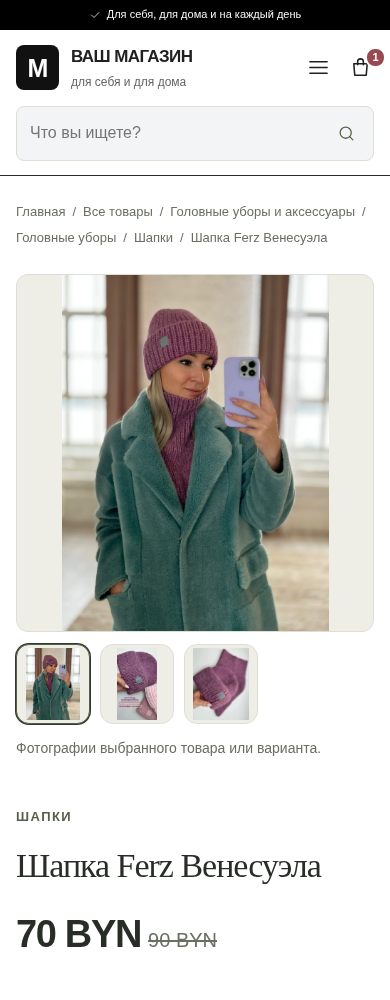
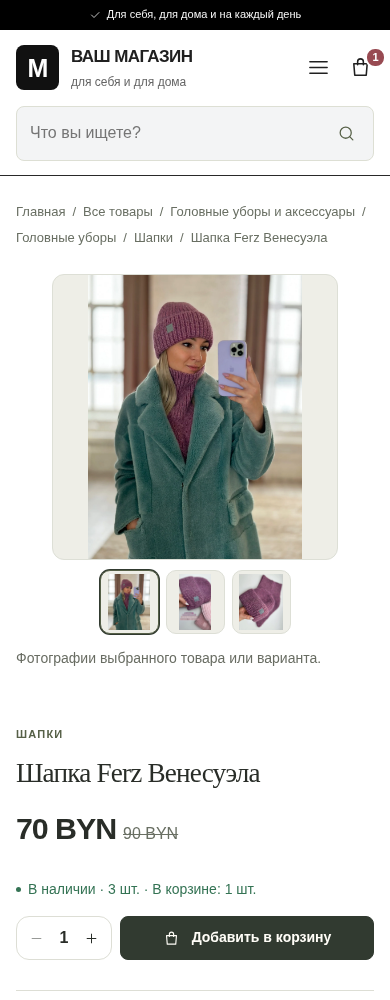
Compact product detail view and add dedicated merged group lists

Changed region(s): [[0.0308, 0.248, 0.9846, 0.961]]

diff --git a/preview.html b/preview.html
@@ -2938,6 +2938,36 @@ button svg {
 .hero-art > svg { position: absolute; inset: 0; width: 100%; height: 100%; max-height: none; }
 @media(max-width:850px){.hero-controls { left: 32px; }.hero-copy { padding-bottom: 92px; }.hero-art { margin-bottom: 70px; }.hero-controls { bottom: 14px; }}
 @media(max-width:600px){.hero-controls { left: 24px; gap: 8px; }.hero-copy { padding-bottom: 32px; }.hero-art { margin-bottom: 68px; }}
+/* Compact product presentation: roughly 80% of the previous desktop scale. */
+.detail { width: 80%; margin-inline: auto; gap: 51px; padding-bottom: 64px; }
+.detail-info { padding-top: 9px; font-size: 14px; }
+.detail-info h1 { font-size: clamp(27.2px,2.64vw,38.4px); margin: 13px 0 22px; }
+.detail-price { font-size: 33.6px; margin-bottom: 26px; }
+.detail-price .old-price { font-size: 16px; }
+.detail .eyebrow { font-size: 11px; }
+.detail .stock-info { font-size: 14px; margin: 12px 0 16px; }
+.detail .buy-row { gap: 8px; }
+.detail .buy-row > .btn { min-height: 44px; min-width: 140px; font-size: 14px; padding: 10px 16px; }
+.detail .qty-input { height: 44px; width: 110px; }
+.detail .qty-input button { padding: 0 12px; }
+.detail .gallery-thumbs { gap: 7px; margin-top: 10px; }
+.detail .thumb { width: 70px; height: 75px; border-radius: 10px; }
+.detail .detail-rule { padding: 22px 0; }
+.detail .detail-rule p, .detail .detail-attrs { font-size: 14px; }
+.detail .detail-rule > strong { font-size: 15px; }
+@media(max-width:850px){
+ .detail { width: 100%; gap: 30px; padding-bottom: 38px; }
+ .detail-main-img { width: 80%; margin-inline: auto; }
+ .detail .gallery-thumbs { justify-content: center; }
+}
+@media(max-width:600px){
+ .detail-info h1 { font-size: 27.2px; margin-bottom: 16px; }
+ .detail-price { font-size: 30.4px; }
+ .detail .thumb { width: 59px; height: 64px; }
+ .detail .qty-input { width: 96px; }
+}
+.product-page > .breadcrumb { width: 80%; margin-inline: auto; }
+@media(max-width:850px){.product-page > .breadcrumb { width: 100%; }}
 
 </style>
 </head>
@@ -3816,7 +3846,7 @@ function renderProduct(){
    return `<button class="variant-pill ${state.selectedOptions[key]===value?'active':''}" data-option="${esc(key)}" data-value="${esc(value)}" aria-pressed="${state.selectedOptions[key]===value}" ${unavailable?'disabled':''}>${key==='Цвет'?`<span class="variant-dot" style="background:${swatch}"></span>`:''}${esc(value)}${unavailable?' · недоступно':off?' · нет в наличии':''}</button>`;
   }).join('')}</div></fieldset>`;
  }).join('');
- return `<main class="container"><nav class="breadcrumb" aria-label="Хлебные крошки"><button data-go="home">Главная</button>${categoryPath(p.cat).map(c=>`<span>/</span><button data-category="${c.id}">${esc(c.name)}</button>`).join('')}<span>/</span><span>${esc(p.name)}</span></nav><div class="detail"><div><div class="detail-main-img">${illustration(p,Math.max(0,index),state.gallery)}</div><div class="gallery-thumbs">${Array.from({length:mediaImages(p,Math.max(0,index)).length||2},(_,i)=>i).map(i=>`<button class="thumb ${state.gallery===i?'active':''}" data-gallery="${i}" aria-label="Изображение ${i+1}" aria-pressed="${state.gallery===i}">${illustration(p,Math.max(0,index),i)}</button>`).join('')}</div><p class="small muted">${mediaImages(p,Math.max(0,index)).length?'Фотографии выбранного товара или варианта.':'Пока показаны демонстрационные иллюстрации.'}</p></div><div class="detail-info"><span class="eyebrow">${esc(category(p.cat).name)}</span><h1 class="serif">${esc(v?.title||p.name)}</h1><div class="detail-price" aria-live="polite">${v?money(skuPrice(p,v)):variantPrice(p)}${v&&skuOld(p,v)>skuPrice(p,v)?`<span class="old-price">${money(skuOld(p,v))}</span>`:''}</div>${choices}<div class="stock-info ${!left?'off':''}" role="status"><span class="stock-dot"></span>${!v?'Такое сочетание недоступно':v.stock===0?'Нет в наличии':left===0?'Всё доступное количество уже в корзине':`В наличии · ${v.stock} шт.${orderingEnabled?'':' (демо)'}`}${v&&inCart(p,v)?` · В корзине: ${inCart(p,v)} шт.`:''}</div><div class="buy-row"><div class="qty-input"><button data-qty="-1" aria-label="Уменьшить количество" ${state.qty<=1||!left?'disabled':''}>${I('minus',15)}</button><strong aria-label="Количество">${state.qty}</strong><button data-qty="1" aria-label="Увеличить количество" ${state.qty>=left?'disabled':''}>${I('plus',15)}</button></div><button class="btn" style="flex:1" data-add="${p.id}" data-variant-index="${index}" data-qty-add="${state.qty}" ${!left?'disabled':''}>${I('bag',17)} Добавить в корзину</button></div><div class="detail-rule" style="margin-top:30px"><strong>Описание</strong><p class="desc">${esc(v?.description??p.summary)}</p></div><div class="detail-rule"><strong>Характеристики</strong><dl class="detail-attrs">${Object.entries(attrs).filter(([key])=>!/импорт[её]р|importer/iu.test(key)).map(([key,value])=>`<div><dt>${esc(key.replaceAll('_',' '))}</dt><dd>${esc(value)}</dd></div>`).join('')}</dl></div><div class="detail-rule"><strong>Доставка и оплата</strong><p>Доступные варианты доставки и итоговая стоимость определяются при оформлении заказа. Условия и стоимость доставки подтвердит продавец.</p></div></div></div>${related.length?`<section class="section" style="padding-top:0"><div class="section-title"><h2 class="serif">Может понравиться</h2><button class="text-link" data-category="${p.cat}">К категории ${I('arrow',15)}</button></div><div class="product-grid">${related.map(card).join('')}</div></section>`:''}</main>`;
+ return `<main class="container product-page"><nav class="breadcrumb" aria-label="Хлебные крошки"><button data-go="home">Главная</button>${categoryPath(p.cat).map(c=>`<span>/</span><button data-category="${c.id}">${esc(c.name)}</button>`).join('')}<span>/</span><span>${esc(p.name)}</span></nav><div class="detail"><div><div class="detail-main-img">${illustration(p,Math.max(0,index),state.gallery)}</div><div class="gallery-thumbs">${Array.from({length:mediaImages(p,Math.max(0,index)).length||2},(_,i)=>i).map(i=>`<button class="thumb ${state.gallery===i?'active':''}" data-gallery="${i}" aria-label="Изображение ${i+1}" aria-pressed="${state.gallery===i}">${illustration(p,Math.max(0,index),i)}</button>`).join('')}</div><p class="small muted">${mediaImages(p,Math.max(0,index)).length?'Фотографии выбранного товара или варианта.':'Пока показаны демонстрационные иллюстрации.'}</p></div><div class="detail-info"><span class="eyebrow">${esc(category(p.cat).name)}</span><h1 class="serif">${esc(v?.title||p.name)}</h1><div class="detail-price" aria-live="polite">${v?money(skuPrice(p,v)):variantPrice(p)}${v&&skuOld(p,v)>skuPrice(p,v)?`<span class="old-price">${money(skuOld(p,v))}</span>`:''}</div>${choices}<div class="stock-info ${!left?'off':''}" role="status"><span class="stock-dot"></span>${!v?'Такое сочетание недоступно':v.stock===0?'Нет в наличии':left===0?'Всё доступное количество уже в корзине':`В наличии · ${v.stock} шт.${orderingEnabled?'':' (демо)'}`}${v&&inCart(p,v)?` · В корзине: ${inCart(p,v)} шт.`:''}</div><div class="buy-row"><div class="qty-input"><button data-qty="-1" aria-label="Уменьшить количество" ${state.qty<=1||!left?'disabled':''}>${I('minus',15)}</button><strong aria-label="Количество">${state.qty}</strong><button data-qty="1" aria-label="Увеличить количество" ${state.qty>=left?'disabled':''}>${I('plus',15)}</button></div><button class="btn" style="flex:1" data-add="${p.id}" data-variant-index="${index}" data-qty-add="${state.qty}" ${!left?'disabled':''}>${I('bag',17)} Добавить в корзину</button></div><div class="detail-rule" style="margin-top:30px"><strong>Описание</strong><p class="desc">${esc(v?.description??p.summary)}</p></div><div class="detail-rule"><strong>Характеристики</strong><dl class="detail-attrs">${Object.entries(attrs).filter(([key])=>!/импорт[её]р|importer/iu.test(key)).map(([key,value])=>`<div><dt>${esc(key.replaceAll('_',' '))}</dt><dd>${esc(value)}</dd></div>`).join('')}</dl></div><div class="detail-rule"><strong>Доставка и оплата</strong><p>Доступные варианты доставки и итоговая стоимость определяются при оформлении заказа. Условия и стоимость доставки подтвердит продавец.</p></div></div></div>${related.length?`<section class="section" style="padding-top:0"><div class="section-title"><h2 class="serif">Может понравиться</h2><button class="text-link" data-category="${p.cat}">К категории ${I('arrow',15)}</button></div><div class="product-grid">${related.map(card).join('')}</div></section>`:''}</main>`;
 }
 function renderCart(){let items=state.cart.map((item,i)=>{const p=find(item.id),v=itemVariant(item);return `<div class="cart-item"><button class="cart-img" data-product="${p.id}" data-sku="${esc(v.sku)}">${illustration(p,p.variants.indexOf(v))}</button><div><h3>${esc(v.title||p.name)}</h3><p>${esc(v.name)} · ${esc(v.sku)}</p><p>${money(skuPrice(p,v))} / шт.</p><div class="cart-item-controls"><div class="qty-input" style="height:34px;width:100px"><button data-cart-qty="${i}:-1" aria-label="Уменьшить">${I('minus',13)}</button><strong>${item.qty}</strong><button data-cart-qty="${i}:1" aria-label="Увеличить">${I('plus',13)}</button></div><button class="remove" data-cart-remove="${i}">Удалить</button></div></div><strong class="cart-line-price">${money(lineTotal(item))}</strong></div>`});return `<main class="container">${crumb([{name:'Корзина'}])}<h1 class="page-heading serif">Корзина</h1><p class="page-intro">Товары из всех категорий оформляются одним заказом.</p>${state.error?`<div class="error" role="alert">${esc(state.error)}</div>`:''}${items.length?`<div class="cart-layout"><div>${items.join('')}<button class="continue" data-go="catalog" data-cat="all">${I('back',13)} Продолжить покупки</button></div><aside class="summary"><h3>Ваш заказ</h3><div class="summary-line"><span>Товары (${cartCount()} шт.)</span><strong>${money(subtotal())}</strong></div><div class="summary-line"><span>Доставка</span><span>Рассчитаем при оформлении</span></div><div class="summary-line total"><span>Товары</span><span>${money(subtotal())}</span></div><button class="btn btn-wide" style="margin-top:24px" data-go="checkout">Оформить заказ ${I('arrow',16)}</button><p class="summary-note">${orderingEnabled?'Наличие и цены проверим при отправке заказа. Оплату и доставку согласует продавец.':'Для отправки заказа запустите приложение через npm start.'}</p></aside></div>`:`<div class="empty" style="margin:30px 0 85px"><h3 class="serif">Корзина пока пуста</h3><p>Посмотрите каталог — возможно, что-то вам понравится.</p><button class="btn" data-go="catalog" data-cat="all">Перейти в каталог ${I('arrow',16)}</button></div>`}</main>`}
 function opt(key,value,title,desc,price){const chosen=state[key]===value;return `<label class="choice ${chosen?'selected':''}"><input type="radio" name="${key}" value="${value}" ${chosen?'checked':''}/><span><strong>${esc(title)}</strong><small>${esc(desc)}</small></span><b>${price}</b></label>`}

diff --git a/admin/app.js b/admin/app.js
@@ -3,7 +3,7 @@ const app=document.querySelector('#admin-app');
 const esc=value=>String(value??'').replace(/[&<>"']/g,c=>({'&':'&amp;','<':'&lt;','>':'&gt;','"':'&quot;',"'":'&#39;'}[c]));
 const money=value=>new Intl.NumberFormat('ru-RU',{maximumFractionDigits:2}).format(value)+' BYN';
 const clone=value=>JSON.parse(JSON.stringify(value));
-const state={selected:new Map(),visibleIds:[],sort:'new',lowStock:false,threshold:5,activeView:'',review:false,bulkAction:'publish',user:null,csrf:'',catalog:null,focusSku:'',editor:null,attrs:[],dimensions:[],search:'',status:'all',category:'all',message:'',error:'',busy:false,uploading:false,setupRequired:false,dirty:false,openVariantPhotos:new Set(),view:location.hash.startsWith('#order')?'orders':'products',ordersData:null,order:null,orderSearch:'',orderStatus:'all',orderPage:1};
+const state={selected:new Map(),visibleIds:[],sort:'new',lowStock:false,threshold:5,activeView:'',review:false,bulkAction:'publish',user:null,csrf:'',catalog:null,groupId:'',focusSku:'',editor:null,attrs:[],dimensions:[],search:'',status:'all',category:'all',message:'',error:'',busy:false,uploading:false,setupRequired:false,dirty:false,openVariantPhotos:new Set(),view:location.hash.startsWith('#order')?'orders':'products',ordersData:null,order:null,orderSearch:'',orderStatus:'all',orderPage:1};
 async function api(path,{method='GET',body,raw=false}={}) {
  const headers={};if(method!=='GET')headers['X-CSRF-Token']=state.csrf;
  if(body!==undefined&&!raw)headers['Content-Type']='application/json';
@@ -53,7 +53,9 @@ function renderOrder(){
 }
 
 function renderList(){
+ if(state.groupId&&!state.catalog.products.some(p=>p.id===state.groupId&&p.variants.length>1))state.groupId='';
  const products=state.catalog.products.filter(p=>{
+  if(state.groupId)return p.id===state.groupId;
   const matchCategory=state.category==='all'||path(p.cat).startsWith(path(state.category));
   const q=state.search.trim().toLocaleLowerCase('ru');
   return (!state.lowStock||p.variants.some(v=>Math.max(0,v.stock-(v.reserved||0))<=state.threshold))&&(!state.review||reviewReasons(p).length>0)&&(state.status==='all'||p.status===state.status)&&matchCategory&&(!q||[p.name,path(p.cat),p.emallId||'',...p.variants.flatMap(v=>[v.sku,v.title||'',v.externalSku||'',v.emallProductId||'',v.options?.['Штрихкод']||'']),p.attrs?.['Штрихкод']||''].join(' ').toLocaleLowerCase('ru').includes(q));
@@ -65,8 +67,12 @@ function renderList(){
  const image=v.images?.[0]||p.images?.[0],draft=quickEdits.get(v.sku)||v;
  const barcode=v.options?.['Штрихкод']||p.attrs?.['Штрихкод']||'';
  const field=(key,label,step)=>`<input type="number" min="0" step="${step}" data-quick-field="${key}" data-quick-sku="${esc(v.sku)}" aria-label="${label} ${esc(v.sku)}" value="${esc(key!=='stock'&&typeof draft[key]==='number'?draft[key].toFixed(2):(draft[key]??0))}" ${state.busy?'disabled':''}>`;
- return `<tr data-quick-row="${esc(v.sku)}"><td class="selection-cell">${i===0?`<input type="checkbox" data-select-product="${p.id}" aria-label="Выбрать ${esc(p.name)}" ${state.selected.has(p.id)?'checked':''} ${state.busy?'disabled':''}>`:''}</td><td>${image?`<img class="thumb" src="${esc(image)}" alt="">`:'<span class="thumb placeholder">▧</span>'}</td><td><strong>${esc(v.externalSku||v.emallProductId||p.emallId||v.sku)}</strong>${v.externalSku||p.emallId?`<p class="hint">SKU: ${esc(v.sku)}</p>`:''}<p><span class="badge ${p.status}">${p.status==='published'?'В продаже':'Черновик'}</span></p></td><td>${esc(barcode)||'—'}</td><td><strong>${esc(v.title||p.name)}</strong><p class="hint">${esc(path(p.cat))}</p>${p.variants.length>1?`<p class="hint">Вариантов: ${p.variants.length}</p><p class="hint">${esc(Object.entries(v.options||{}).map(([k,val])=>k+': '+val).join(' · ')||v.name||v.sku)}</p>`:''}${reviewReasons(p).length?`<p class="hint">${esc(reviewReasons(p).join(' · '))}</p>`:''}</td><td>${field('stock','Остаток','1')}<p class="hint">Резерв: ${v.reserved||0} · Доступно: ${v.available??Math.max(0,v.stock-(v.reserved||0))}</p></td><td>${field('old','Цена до скидки','0.01')}</td><td>${field('price','Текущая цена','0.01')}${Number(draft.old)>Number(draft.price)?`<span class="inline-discount">−${Math.round((1-Number(draft.price)/Number(draft.old))*100)}%</span>`:''}</td><td><button class="btn small" data-quick-save="${esc(v.sku)}" data-product="${p.id}" ${state.busy?'disabled':''}>Сохранить</button>${p.variants.length>1?`<button class="btn secondary small" data-edit-variant="${esc(v.sku)}" data-product="${p.id}">Редактировать товар</button>`:''}${i===0?`${p.variants.length>1?`<button class="btn secondary small" data-split="${p.id}">Разъединить</button>`:''}<button class="btn secondary small" data-copy="${p.id}">Копировать</button><button class="btn secondary small" data-edit="${p.id}">${p.variants.length>1?'Все варианты':'Редактировать'}</button><button class="btn danger small" data-delete="${p.id}">Удалить</button>`:''}</td></tr>`;
+ return `<tr data-quick-row="${esc(v.sku)}"><td class="selection-cell">${i===0?`<input type="checkbox" data-select-product="${p.id}" aria-label="Выбрать ${esc(p.name)}" ${state.selected.has(p.id)?'checked':''} ${state.busy?'disabled':''}>`:''}</td><td>${image?`<img class="thumb" src="${esc(image)}" alt="">`:'<span class="thumb placeholder">▧</span>'}</td><td><strong>${esc(v.externalSku||v.emallProductId||p.emallId||v.sku)}</strong>${v.externalSku||p.emallId?`<p class="hint">SKU: ${esc(v.sku)}</p>`:''}<p><span class="badge ${p.status}">${p.status==='published'?'В продаже':'Черновик'}</span></p></td><td>${esc(barcode)||'—'}</td><td><strong>${esc(v.title||p.name)}</strong><p class="hint">${esc(path(p.cat))}</p>${p.variants.length>1?`<button class="btn plain small grouped-button" data-open-group="${p.id}">Объединено (${p.variants.length})</button><p class="hint">${esc(Object.entries(v.options||{}).map(([k,val])=>k+': '+val).join(' · ')||v.name||v.sku)}</p>`:''}${reviewReasons(p).length?`<p class="hint">${esc(reviewReasons(p).join(' · '))}</p>`:''}</td><td>${field('stock','Остаток','1')}<p class="hint">Резерв: ${v.reserved||0} · Доступно: ${v.available??Math.max(0,v.stock-(v.reserved||0))}</p></td><td>${field('old','Цена до скидки','0.01')}</td><td>${field('price','Текущая цена','0.01')}${Number(draft.old)>Number(draft.price)?`<span class="inline-discount">−${Math.round((1-Number(draft.price)/Number(draft.old))*100)}%</span>`:''}</td><td><button class="btn small" data-quick-save="${esc(v.sku)}" data-product="${p.id}" ${state.busy?'disabled':''}>Сохранить</button>${p.variants.length>1?`<button class="btn secondary small" data-edit-variant="${esc(v.sku)}" data-product="${p.id}">Редактировать товар</button>`:''}${i===0?`${p.variants.length>1?`<button class="btn secondary small" data-split="${p.id}">Разъединить</button>`:''}<button class="btn secondary small" data-copy="${p.id}">Копировать</button><button class="btn secondary small" data-edit="${p.id}">${p.variants.length>1?'Все варианты':'Редактировать'}</button><button class="btn danger small" data-delete="${p.id}">Удалить</button>`:''}</td></tr>`;
  }).join('')).join('')}</tbody></table>`:'<div class="empty"><h2>Товары не найдены</h2><p class="muted">Измените условия поиска или добавьте новый товар.</p></div>'}</section></main>`;
+ if(state.groupId){
+  const main=app.querySelector('main');main.classList.add('group-list-page');main.querySelector('.heading h1').textContent='Объединённые товары';const count=document.createElement('p');count.className='hint';count.textContent='Товаров в группе: '+products[0].variants.length;main.querySelector('.heading > div').append(count);const back=document.createElement('button');back.className='btn plain small';back.dataset.action='back-to-all-products';back.textContent='← К общему списку';main.querySelector('.heading').prepend(back);
+  main.querySelectorAll('.overview,.toolbar,.catalog-tools,.heading > .actions,.heading .heading-eyebrow,.heading .heading-description').forEach(el=>el.remove());
+ }
  const allBox=document.querySelector('#select-all-products');if(allBox)allBox.indeterminate=products.some(p=>state.selected.has(p.id))&&!products.every(p=>state.selected.has(p.id));
  document.querySelectorAll('#search,#status-filter,#category-filter,#bulk-action,#bulk-category,#price-mode,#price-amount,#review-filter,#admin-sort,#low-stock,#stock-threshold,#saved-view').forEach(input=>input.disabled=state.busy);
 }
@@ -205,7 +211,7 @@ app.addEventListener('click',async e=>{
   if(d.action==='logout'){if(state.dirty&&!confirm('Выйти без сохранения изменений?'))return;await api('/api/admin/logout',{method:'POST',body:{}});state.user=null;state.selected.clear();state.editor=null;state.dirty=false;state.message='';state.error='';renderLogin();return}
   if(d.adminView){
    if(state.dirty&&!confirm('Перейти без сохранения товара?'))return;
-   state.view=d.adminView;state.editor=null;state.order=null;state.dirty=false;state.error='';state.message='';
+   state.view=d.adminView;if(d.adminView==='products')state.groupId='';state.editor=null;state.order=null;state.dirty=false;state.error='';state.message='';
    history.replaceState(null,'',state.view==='orders'?'#orders':'#products');
    if(state.view==='orders')await loadOrders();else await loadCatalog();render();return;
   }
@@ -236,6 +242,8 @@ app.addEventListener('click',async e=>{
    try{const result=await api('/api/admin/products/'+p.id,{method:'PUT',body:{...p,version:draft.version??p.version,variants:p.variants.map(item=>item.sku===v.sku?{...item,...values}:item)}});quickEdits.delete(v.sku);for(const draft of quickEdits.values())if(draft.productId===p.id)draft.version=result.version;state.catalog.products=state.catalog.products.map(item=>item.id===p.id?result:item);if(state.selected.has(p.id))state.selected.set(p.id,result.version);state.error='';state.message='Цена и остаток сохранены: '+(v.externalSku||v.sku);}
    finally{state.busy=false;renderList()}return;
   }
+  if(d.openGroup){state.groupId=d.openGroup;state.selected.clear();await loadCatalog();renderList();window.scrollTo({top:0,behavior:'instant'});return}
+  if(d.action==='back-to-all-products'){state.groupId='';state.selected.clear();renderList();window.scrollTo({top:0,behavior:'instant'});return}
   if(d.action==='backups'){if(quickEdits.size)throw Error('Сначала сохраните или отмените изменения в строках.');return await showBackups()}
   if(d.action==='save-view'){const name=prompt('Название подборки');if(!name)return;const result=await api('/api/admin/views',{method:'POST',body:{name,filters:Object.fromEntries(['search','status','category','sort','threshold','review','lowStock'].map(key=>[key,state[key]]))}});state.activeView=result.id;await loadCatalog();state.message='Подборка сохранена.';state.error='';renderList();return}
   if(d.action==='delete-view'){if(!state.activeView)return;if(!confirm('Удалить сохранённую подборку? Товары останутся в магазине.'))return;await api('/api/admin/views',{method:'DELETE',body:{id:state.activeView}});state.activeView='';await loadCatalog();state.message='Подборка удалена.';renderList();return}

diff --git a/index.html b/index.html
@@ -190,7 +190,7 @@ function renderProduct(){
    return `<button class="variant-pill ${state.selectedOptions[key]===value?'active':''}" data-option="${esc(key)}" data-value="${esc(value)}" aria-pressed="${state.selectedOptions[key]===value}" ${unavailable?'disabled':''}>${key==='Цвет'?`<span class="variant-dot" style="background:${swatch}"></span>`:''}${esc(value)}${unavailable?' · недоступно':off?' · нет в наличии':''}</button>`;
   }).join('')}</div></fieldset>`;
  }).join('');
- return `<main class="container"><nav class="breadcrumb" aria-label="Хлебные крошки"><button data-go="home">Главная</button>${categoryPath(p.cat).map(c=>`<span>/</span><button data-category="${c.id}">${esc(c.name)}</button>`).join('')}<span>/</span><span>${esc(p.name)}</span></nav><div class="detail"><div><div class="detail-main-img">${illustration(p,Math.max(0,index),state.gallery)}</div><div class="gallery-thumbs">${Array.from({length:mediaImages(p,Math.max(0,index)).length||2},(_,i)=>i).map(i=>`<button class="thumb ${state.gallery===i?'active':''}" data-gallery="${i}" aria-label="Изображение ${i+1}" aria-pressed="${state.gallery===i}">${illustration(p,Math.max(0,index),i)}</button>`).join('')}</div><p class="small muted">${mediaImages(p,Math.max(0,index)).length?'Фотографии выбранного товара или варианта.':'Пока показаны демонстрационные иллюстрации.'}</p></div><div class="detail-info"><span class="eyebrow">${esc(category(p.cat).name)}</span><h1 class="serif">${esc(v?.title||p.name)}</h1><div class="detail-price" aria-live="polite">${v?money(skuPrice(p,v)):variantPrice(p)}${v&&skuOld(p,v)>skuPrice(p,v)?`<span class="old-price">${money(skuOld(p,v))}</span>`:''}</div>${choices}<div class="stock-info ${!left?'off':''}" role="status"><span class="stock-dot"></span>${!v?'Такое сочетание недоступно':v.stock===0?'Нет в наличии':left===0?'Всё доступное количество уже в корзине':`В наличии · ${v.stock} шт.${orderingEnabled?'':' (демо)'}`}${v&&inCart(p,v)?` · В корзине: ${inCart(p,v)} шт.`:''}</div><div class="buy-row"><div class="qty-input"><button data-qty="-1" aria-label="Уменьшить количество" ${state.qty<=1||!left?'disabled':''}>${I('minus',15)}</button><strong aria-label="Количество">${state.qty}</strong><button data-qty="1" aria-label="Увеличить количество" ${state.qty>=left?'disabled':''}>${I('plus',15)}</button></div><button class="btn" style="flex:1" data-add="${p.id}" data-variant-index="${index}" data-qty-add="${state.qty}" ${!left?'disabled':''}>${I('bag',17)} Добавить в корзину</button></div><div class="detail-rule" style="margin-top:30px"><strong>Описание</strong><p class="desc">${esc(v?.description??p.summary)}</p></div><div class="detail-rule"><strong>Характеристики</strong><dl class="detail-attrs">${Object.entries(attrs).filter(([key])=>!/импорт[её]р|importer/iu.test(key)).map(([key,value])=>`<div><dt>${esc(key.replaceAll('_',' '))}</dt><dd>${esc(value)}</dd></div>`).join('')}</dl></div><div class="detail-rule"><strong>Доставка и оплата</strong><p>Доступные варианты доставки и итоговая стоимость определяются при оформлении заказа. Условия и стоимость доставки подтвердит продавец.</p></div></div></div>${related.length?`<section class="section" style="padding-top:0"><div class="section-title"><h2 class="serif">Может понравиться</h2><button class="text-link" data-category="${p.cat}">К категории ${I('arrow',15)}</button></div><div class="product-grid">${related.map(card).join('')}</div></section>`:''}</main>`;
+ return `<main class="container product-page"><nav class="breadcrumb" aria-label="Хлебные крошки"><button data-go="home">Главная</button>${categoryPath(p.cat).map(c=>`<span>/</span><button data-category="${c.id}">${esc(c.name)}</button>`).join('')}<span>/</span><span>${esc(p.name)}</span></nav><div class="detail"><div><div class="detail-main-img">${illustration(p,Math.max(0,index),state.gallery)}</div><div class="gallery-thumbs">${Array.from({length:mediaImages(p,Math.max(0,index)).length||2},(_,i)=>i).map(i=>`<button class="thumb ${state.gallery===i?'active':''}" data-gallery="${i}" aria-label="Изображение ${i+1}" aria-pressed="${state.gallery===i}">${illustration(p,Math.max(0,index),i)}</button>`).join('')}</div><p class="small muted">${mediaImages(p,Math.max(0,index)).length?'Фотографии выбранного товара или варианта.':'Пока показаны демонстрационные иллюстрации.'}</p></div><div class="detail-info"><span class="eyebrow">${esc(category(p.cat).name)}</span><h1 class="serif">${esc(v?.title||p.name)}</h1><div class="detail-price" aria-live="polite">${v?money(skuPrice(p,v)):variantPrice(p)}${v&&skuOld(p,v)>skuPrice(p,v)?`<span class="old-price">${money(skuOld(p,v))}</span>`:''}</div>${choices}<div class="stock-info ${!left?'off':''}" role="status"><span class="stock-dot"></span>${!v?'Такое сочетание недоступно':v.stock===0?'Нет в наличии':left===0?'Всё доступное количество уже в корзине':`В наличии · ${v.stock} шт.${orderingEnabled?'':' (демо)'}`}${v&&inCart(p,v)?` · В корзине: ${inCart(p,v)} шт.`:''}</div><div class="buy-row"><div class="qty-input"><button data-qty="-1" aria-label="Уменьшить количество" ${state.qty<=1||!left?'disabled':''}>${I('minus',15)}</button><strong aria-label="Количество">${state.qty}</strong><button data-qty="1" aria-label="Увеличить количество" ${state.qty>=left?'disabled':''}>${I('plus',15)}</button></div><button class="btn" style="flex:1" data-add="${p.id}" data-variant-index="${index}" data-qty-add="${state.qty}" ${!left?'disabled':''}>${I('bag',17)} Добавить в корзину</button></div><div class="detail-rule" style="margin-top:30px"><strong>Описание</strong><p class="desc">${esc(v?.description??p.summary)}</p></div><div class="detail-rule"><strong>Характеристики</strong><dl class="detail-attrs">${Object.entries(attrs).filter(([key])=>!/импорт[её]р|importer/iu.test(key)).map(([key,value])=>`<div><dt>${esc(key.replaceAll('_',' '))}</dt><dd>${esc(value)}</dd></div>`).join('')}</dl></div><div class="detail-rule"><strong>Доставка и оплата</strong><p>Доступные варианты доставки и итоговая стоимость определяются при оформлении заказа. Условия и стоимость доставки подтвердит продавец.</p></div></div></div>${related.length?`<section class="section" style="padding-top:0"><div class="section-title"><h2 class="serif">Может понравиться</h2><button class="text-link" data-category="${p.cat}">К категории ${I('arrow',15)}</button></div><div class="product-grid">${related.map(card).join('')}</div></section>`:''}</main>`;
 }
 function renderCart(){let items=state.cart.map((item,i)=>{const p=find(item.id),v=itemVariant(item);return `<div class="cart-item"><button class="cart-img" data-product="${p.id}" data-sku="${esc(v.sku)}">${illustration(p,p.variants.indexOf(v))}</button><div><h3>${esc(v.title||p.name)}</h3><p>${esc(v.name)} · ${esc(v.sku)}</p><p>${money(skuPrice(p,v))} / шт.</p><div class="cart-item-controls"><div class="qty-input" style="height:34px;width:100px"><button data-cart-qty="${i}:-1" aria-label="Уменьшить">${I('minus',13)}</button><strong>${item.qty}</strong><button data-cart-qty="${i}:1" aria-label="Увеличить">${I('plus',13)}</button></div><button class="remove" data-cart-remove="${i}">Удалить</button></div></div><strong class="cart-line-price">${money(lineTotal(item))}</strong></div>`});return `<main class="container">${crumb([{name:'Корзина'}])}<h1 class="page-heading serif">Корзина</h1><p class="page-intro">Товары из всех категорий оформляются одним заказом.</p>${state.error?`<div class="error" role="alert">${esc(state.error)}</div>`:''}${items.length?`<div class="cart-layout"><div>${items.join('')}<button class="continue" data-go="catalog" data-cat="all">${I('back',13)} Продолжить покупки</button></div><aside class="summary"><h3>Ваш заказ</h3><div class="summary-line"><span>Товары (${cartCount()} шт.)</span><strong>${money(subtotal())}</strong></div><div class="summary-line"><span>Доставка</span><span>Рассчитаем при оформлении</span></div><div class="summary-line total"><span>Товары</span><span>${money(subtotal())}</span></div><button class="btn btn-wide" style="margin-top:24px" data-go="checkout">Оформить заказ ${I('arrow',16)}</button><p class="summary-note">${orderingEnabled?'Наличие и цены проверим при отправке заказа. Оплату и доставку согласует продавец.':'Для отправки заказа запустите приложение через npm start.'}</p></aside></div>`:`<div class="empty" style="margin:30px 0 85px"><h3 class="serif">Корзина пока пуста</h3><p>Посмотрите каталог — возможно, что-то вам понравится.</p><button class="btn" data-go="catalog" data-cat="all">Перейти в каталог ${I('arrow',16)}</button></div>`}</main>`}
 function opt(key,value,title,desc,price){const chosen=state[key]===value;return `<label class="choice ${chosen?'selected':''}"><input type="radio" name="${key}" value="${value}" ${chosen?'checked':''}/><span><strong>${esc(title)}</strong><small>${esc(desc)}</small></span><b>${price}</b></label>`}

diff --git a/storefront.css b/storefront.css
@@ -2930,3 +2930,33 @@ button svg {
 .hero-art > svg { position: absolute; inset: 0; width: 100%; height: 100%; max-height: none; }
 @media(max-width:850px){.hero-controls { left: 32px; }.hero-copy { padding-bottom: 92px; }.hero-art { margin-bottom: 70px; }.hero-controls { bottom: 14px; }}
 @media(max-width:600px){.hero-controls { left: 24px; gap: 8px; }.hero-copy { padding-bottom: 32px; }.hero-art { margin-bottom: 68px; }}
+/* Compact product presentation: roughly 80% of the previous desktop scale. */
+.detail { width: 80%; margin-inline: auto; gap: 51px; padding-bottom: 64px; }
+.detail-info { padding-top: 9px; font-size: 14px; }
+.detail-info h1 { font-size: clamp(27.2px,2.64vw,38.4px); margin: 13px 0 22px; }
+.detail-price { font-size: 33.6px; margin-bottom: 26px; }
+.detail-price .old-price { font-size: 16px; }
+.detail .eyebrow { font-size: 11px; }
+.detail .stock-info { font-size: 14px; margin: 12px 0 16px; }
+.detail .buy-row { gap: 8px; }
+.detail .buy-row > .btn { min-height: 44px; min-width: 140px; font-size: 14px; padding: 10px 16px; }
+.detail .qty-input { height: 44px; width: 110px; }
+.detail .qty-input button { padding: 0 12px; }
+.detail .gallery-thumbs { gap: 7px; margin-top: 10px; }
+.detail .thumb { width: 70px; height: 75px; border-radius: 10px; }
+.detail .detail-rule { padding: 22px 0; }
+.detail .detail-rule p, .detail .detail-attrs { font-size: 14px; }
+.detail .detail-rule > strong { font-size: 15px; }
+@media(max-width:850px){
+ .detail { width: 100%; gap: 30px; padding-bottom: 38px; }
+ .detail-main-img { width: 80%; margin-inline: auto; }
+ .detail .gallery-thumbs { justify-content: center; }
+}
+@media(max-width:600px){
+ .detail-info h1 { font-size: 27.2px; margin-bottom: 16px; }
+ .detail-price { font-size: 30.4px; }
+ .detail .thumb { width: 59px; height: 64px; }
+ .detail .qty-input { width: 96px; }
+}
+.product-page > .breadcrumb { width: 80%; margin-inline: auto; }
+@media(max-width:850px){.product-page > .breadcrumb { width: 100%; }}

diff --git a/admin/style.css b/admin/style.css
@@ -337,3 +337,7 @@ p { line-height: 1.7; }
 }
 .bulk-toolbar { position: sticky; top: 0; z-index: 35; background: #f3f4f5; box-shadow: 0 5px 14px #0000000b; }
 @media(max-width:720px){.bulk-toolbar { max-height: 42vh; overflow-y: auto; }}
+.quick-product-list .grouped-button { display: inline-flex; width: auto; min-height: 32px; margin-top: 7px; padding: 5px 10px; font-size: 13px; color: #342f29; background: #f3f4f5; border-color: #d6d7d9; }
+.group-list-page > .heading { justify-content: flex-start; padding-top: 0; margin-bottom: 18px; }
+.group-list-page > .heading h1 { font-size: 29px; margin: 0; }
+.group-list-page .grouped-button { display: none; }

diff --git a/README.md b/README.md
@@ -295,3 +295,9 @@ npm run test:ui
 Резервы в заказах не блокируют объединение: перемещается принадлежность неизменяемого SKU, а количество резерва, цены и названия исторического заказа сохраняются. При отправке списывается тот же SKU и обновляется версия его текущей модели. Ограничения на удаление и уменьшение физического остатка ниже резерва сохраняются. Панель массовых действий закрепляется у верхнего края при прокрутке списка.
 
 При сохранении одной строки через ранее открытый общий редактор сервер распознаёт индивидуальное изменение и сохраняет остальные связанные SKU. Изменения собственного названия, описания и фотографий соседних вариантов не затираются. Связанный с Emall артикул нельзя убрать кнопкой удаления варианта в общем редакторе; для удаления отдельной карточки сначала разъедините модель.
+
+## Компактная карточка и список объединения
+
+Основной блок страницы товара на витрине стал примерно на 20% компактнее: уменьшены изображение, заголовок, цена, миниатюры и отступы. На телефоне сохранена ширина текстовой части и удобные кнопки покупки. Каталог и корзина сохраняют прежние размеры.
+
+Под названием каждого товара с несколькими вариантами в админке показана кнопка «Объединено (N)». Она открывает отдельный список всей группы без ограничения предыдущим поиском, категорией или фильтром остатков. В нём доступны индивидуальное редактирование и сохранение строк. Из редактора можно вернуться в эту же группу, а кнопка «К общему списку» возвращает прежние фильтры общего списка. Открытие группы не изменяет состав объединения, цены или остатки.
